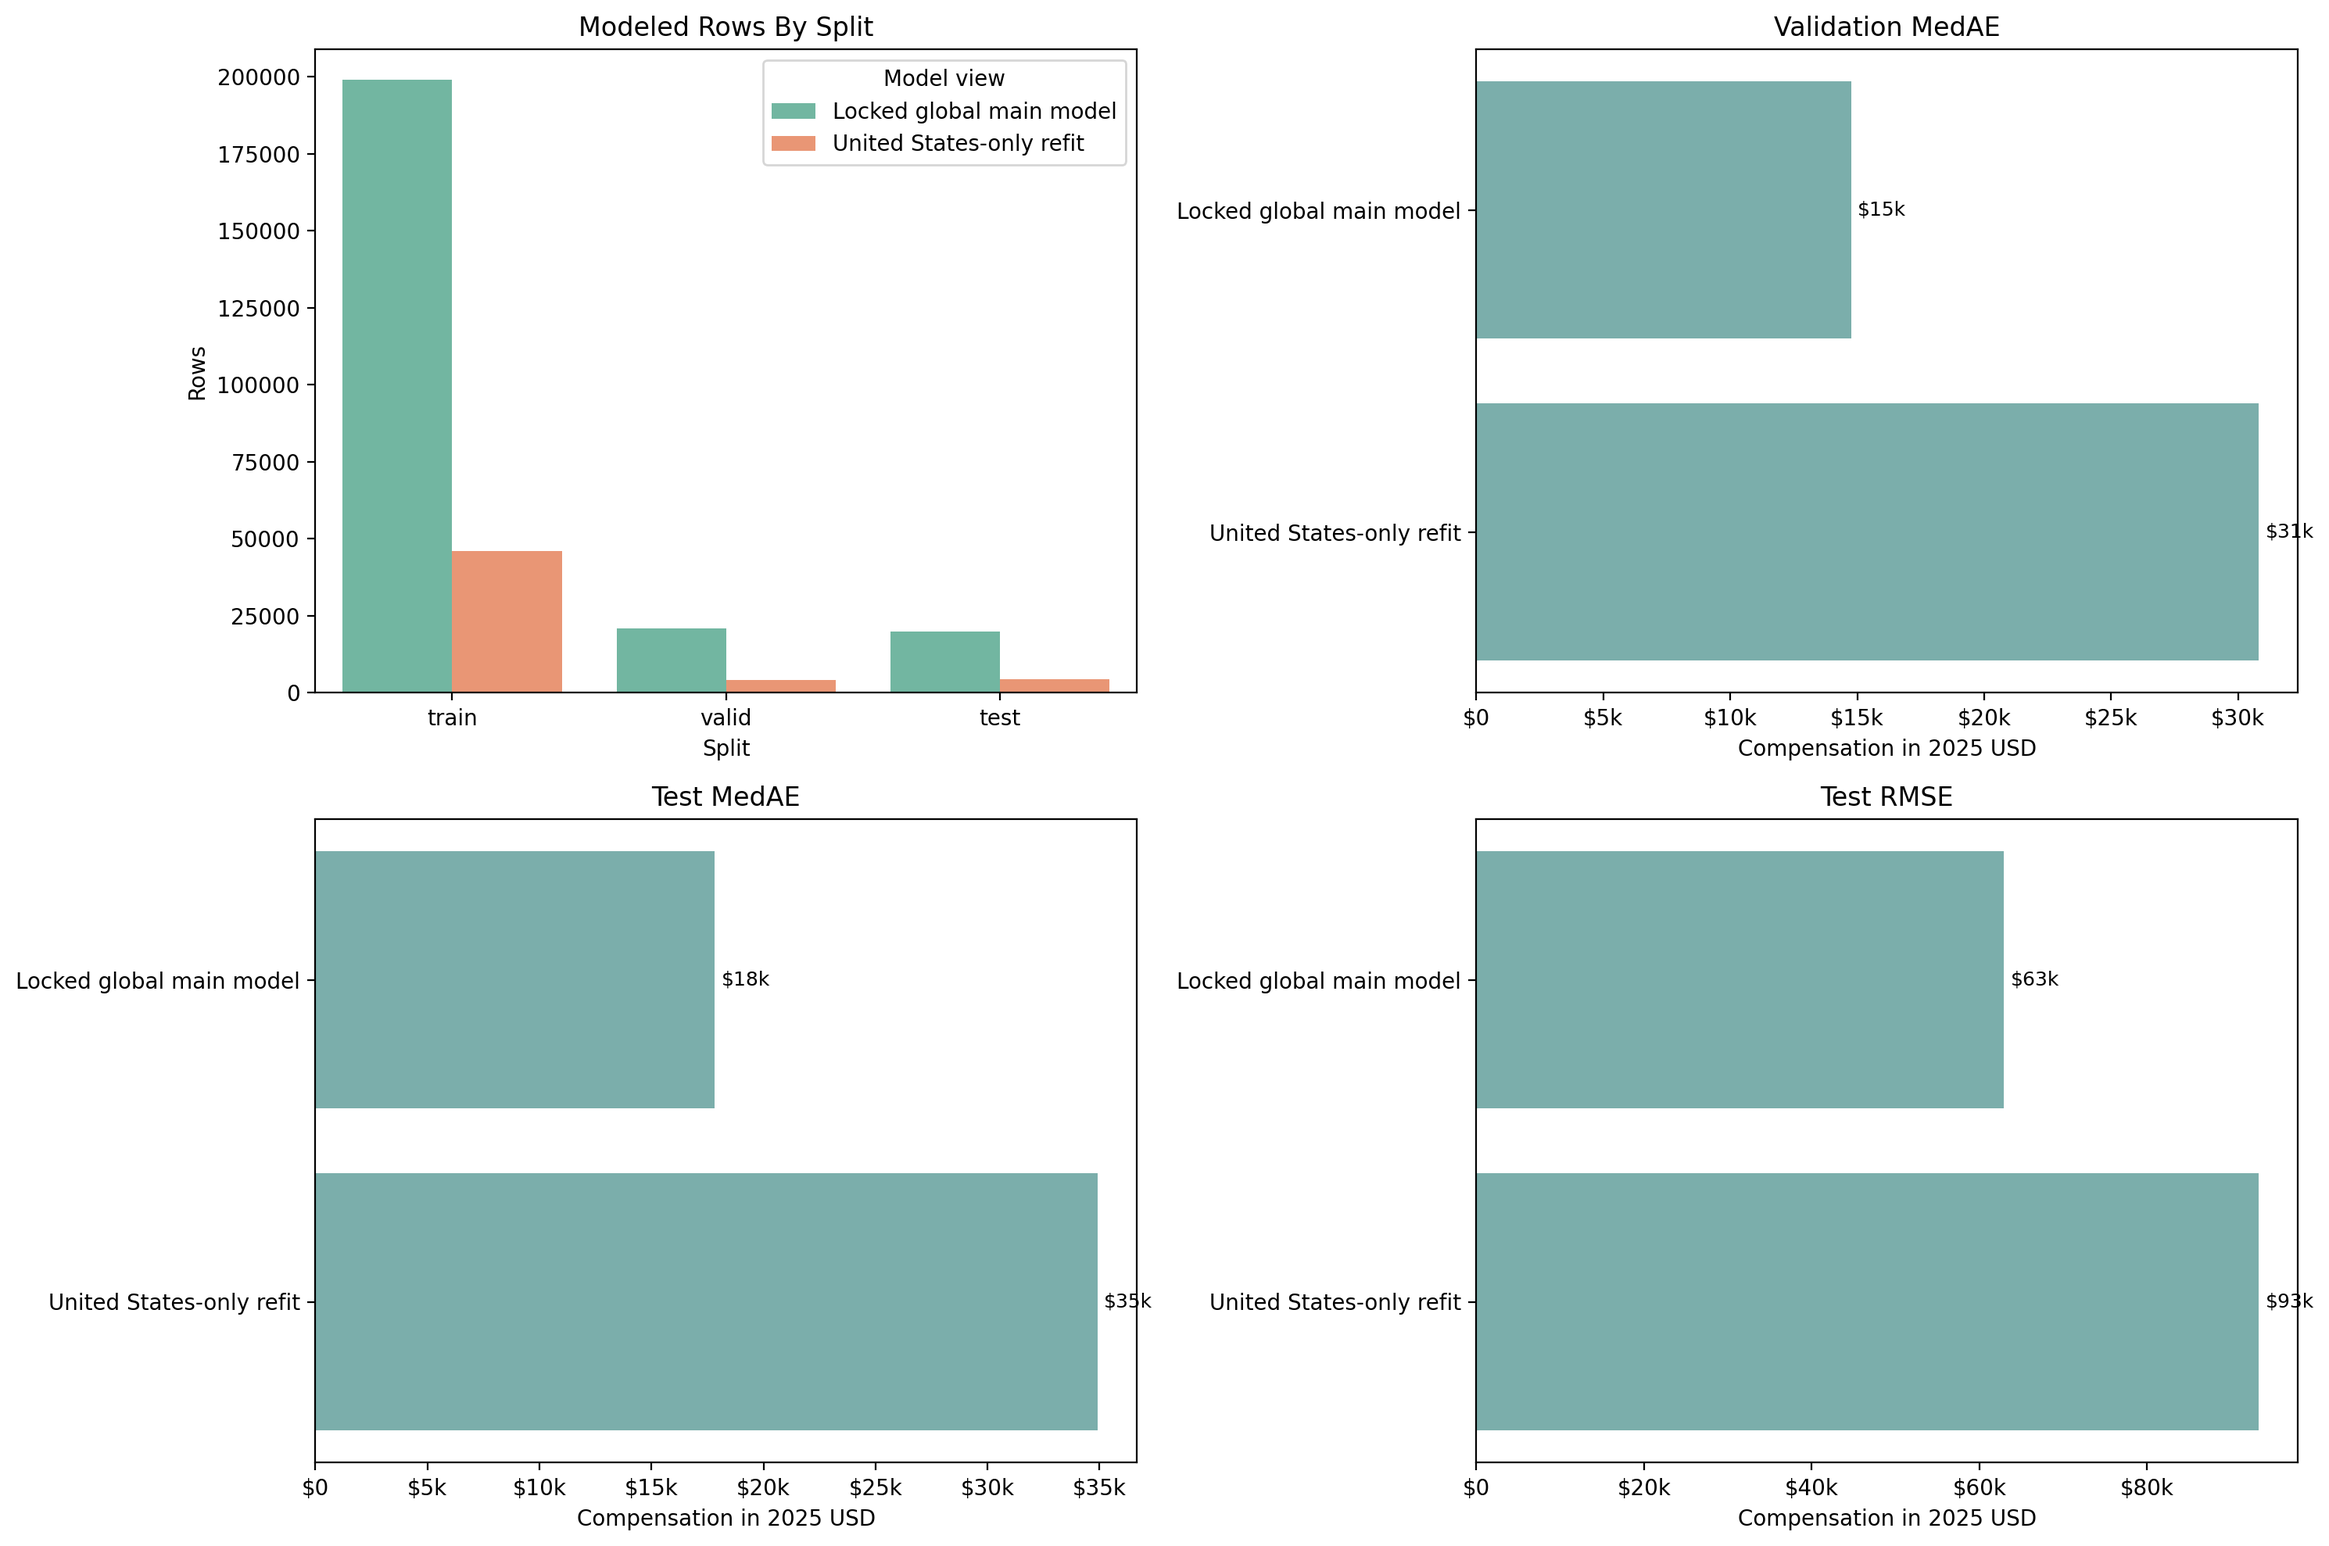
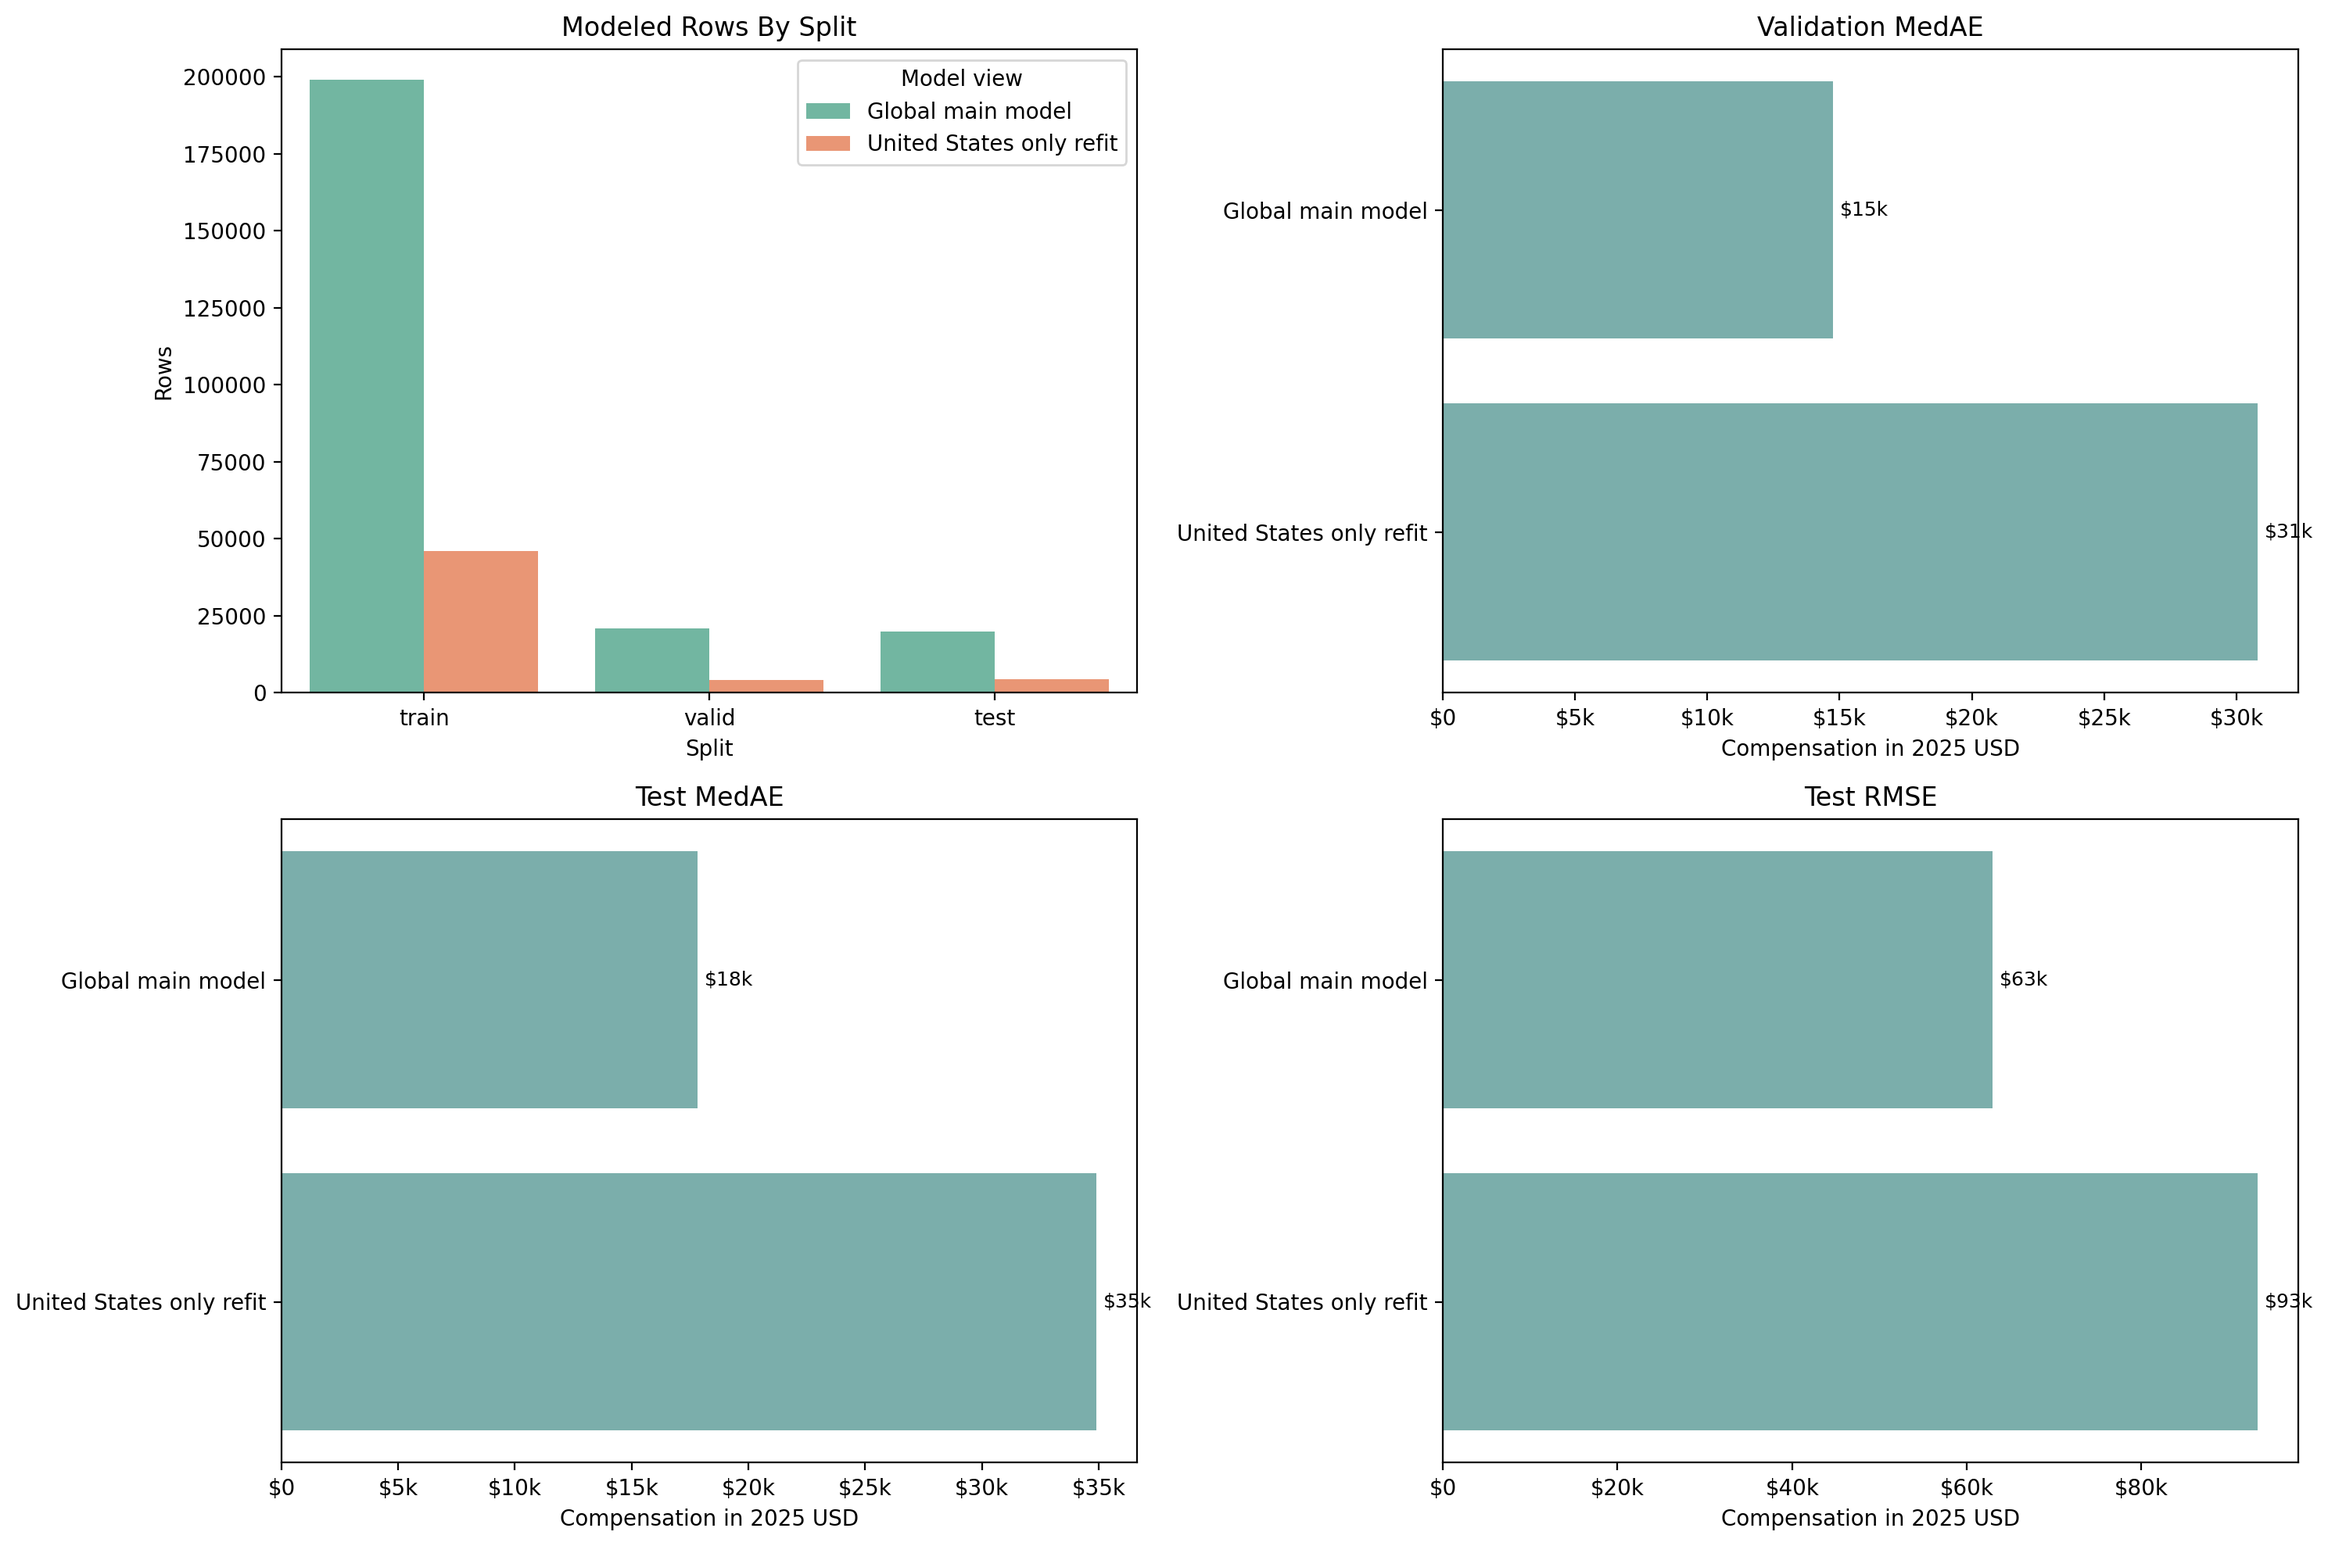
Updated compensation outputs

diff --git a/src/compensation_modeling.py b/src/compensation_modeling.py
@@ -57,8 +57,7 @@ REPORT_COUNTRY_LABELS = 12
 REPORT_SCATTER_SAMPLE = 8000
 REPORT_US_COUNTRY = 'United States'
 REPORT_US_TOP_FEATURES = 12
-GLOBAL_MAIN_VIEW = 'Locked global main model'
-GLOBAL_US_VIEW = 'Global selected on US'
+GLOBAL_MAIN_VIEW = 'Global main model'
 US_REFIT_VIEW = 'United States only refit'
 
 # Geography groups for the plain English median baseline
@@ -1237,6 +1236,23 @@ def score_prediction_frame(frame, pred_log, actual_log_col=TARGET_COL):
     return out
 
 
+# Flattens a scored prediction frame into one shared export schema for report tables
+def build_scored_prediction_export(scored_df, model_view, fit_scope, test_scope, report_country=None):
+    id_cols = [col for col in ['row_id', 'response_id', 'survey_year', 'country_clean', 'region'] if col in scored_df.columns]
+    out = scored_df[id_cols].copy()
+    out['model_view'] = model_view
+    out['fit_scope'] = fit_scope
+    out['test_scope'] = test_scope
+    if report_country is not None and 'country_clean' in out.columns:
+        out['is_report_country'] = out['country_clean'].eq(report_country)
+    out['actual_real'] = scored_df['actual_real'].to_numpy()
+    out['pred_real'] = scored_df['pred_real'].to_numpy()
+    out['signed_error_real'] = scored_df['signed_error_real'].to_numpy()
+    out['abs_error_real'] = scored_df['abs_error_real'].to_numpy()
+    out['pct_error'] = scored_df['pct_error'].to_numpy()
+    return out
+
+
 # Summarizes where the model does well or poorly once the test rows are grouped
 def summarize_prediction_groups(scored_df, group_cols, train_ref=None):
     rows = []
@@ -1559,18 +1575,11 @@ def build_us_compensation_report_bundle(
         tune_trials=0,
         group_cols=('country_clean',)
     )
-    global_valid_scored = score_prediction_frame(
-        global_valid,
-        pd.Series(global_result['valid_pred_log'], index=global_valid.index),
-        actual_log_col=TARGET_COL
-    )
     global_test_scored = score_prediction_frame(
         global_test,
         pd.Series(global_result['test_pred_log'], index=global_test.index),
         actual_log_col=TARGET_COL
     )
-    global_valid_country = global_valid_scored.loc[global_valid_scored['country_clean'].eq(country)].copy()
-    global_test_country = global_test_scored.loc[global_test_scored['country_clean'].eq(country)].copy()
 
     country_train, country_valid, country_test, country_tech_cols = split_window_with_tech_flags(
         country_df,
@@ -1592,19 +1601,11 @@ def build_us_compensation_report_bundle(
         tune_trials=0,
         group_cols=()
     )
-    country_valid_scored = score_prediction_frame(
-        country_valid,
-        pd.Series(country_result['valid_pred_log'], index=country_valid.index),
-        actual_log_col=TARGET_COL
-    )
     country_test_scored = score_prediction_frame(
         country_test,
         pd.Series(country_result['test_pred_log'], index=country_test.index),
         actual_log_col=TARGET_COL
     )
-
-    global_valid_country = global_valid_country.reindex(country_valid.index)
-    global_test_country = global_test_country.reindex(country_test.index)
 
     summary = pd.DataFrame([
         {
@@ -1649,15 +1650,23 @@ def build_us_compensation_report_bundle(
         .rename(columns={'size': 'rows'})
     )
 
-    pred_cols = [col for col in ['row_id', 'response_id', 'survey_year', 'country_clean', 'region'] if col in country_test.columns]
-    predictions = country_test[pred_cols].copy()
-    predictions['actual_real'] = country_test_scored['actual_real'].to_numpy()
-    predictions['global_us_fit_pred_real'] = global_test_country['pred_real'].to_numpy()
-    predictions['global_us_fit_signed_error_real'] = global_test_country['signed_error_real'].to_numpy()
-    predictions['global_us_fit_abs_error_real'] = global_test_country['abs_error_real'].to_numpy()
-    predictions['us_refit_pred_real'] = country_test_scored['pred_real'].to_numpy()
-    predictions['us_refit_signed_error_real'] = country_test_scored['signed_error_real'].to_numpy()
-    predictions['us_refit_abs_error_real'] = country_test_scored['abs_error_real'].to_numpy()
+    country_scope = f"{country.lower().replace(' ', '_')}_test_{TEST_YEAR}"
+    predictions = pd.concat([
+        build_scored_prediction_export(
+            global_test_scored,
+            model_view=GLOBAL_MAIN_VIEW,
+            fit_scope='global',
+            test_scope=f'global_test_{TEST_YEAR}',
+            report_country=country
+        ),
+        build_scored_prediction_export(
+            country_test_scored,
+            model_view=US_REFIT_VIEW,
+            fit_scope='country_only',
+            test_scope=country_scope,
+            report_country=country
+        )
+    ], axis=0).reset_index(drop=True)
 
     decile_compare = build_named_decile_compare_table([
         (GLOBAL_MAIN_VIEW, global_test_scored),
@@ -1690,33 +1699,22 @@ def build_us_compensation_report_bundle(
             target_col=WINSOR_TARGET_COL
         )
 
-        global_country_features = global_test_prepped.loc[
-            global_test_winsor['country_clean'].eq(country),
-            global_result['feature_cols']
-        ].copy()
+        global_feature_frame = global_test_prepped.loc[:, global_result['feature_cols']].copy()
         country_feature_frame = country_test_prepped.loc[:, country_result['feature_cols']].copy()
-        if len(global_country_features) != len(country_feature_frame):
-            raise ValueError("United States SHAP comparison frames must align row for row")
-
-        sample_positions = np.arange(len(country_feature_frame))
-        if shap_sample_size is not None and len(sample_positions) > shap_sample_size:
-            sample_positions = np.sort(
-                np.random.default_rng(RANDOM_STATE).choice(sample_positions, size=shap_sample_size, replace=False)
-            )
 
         global_shap_bundle = build_selected_shap_bundle(
             global_result['model'],
-            global_country_features.iloc[sample_positions],
-            sample_size=None
+            global_feature_frame,
+            sample_size=shap_sample_size
         )
         country_shap_bundle = build_selected_shap_bundle(
             country_result['model'],
-            country_feature_frame.iloc[sample_positions],
-            sample_size=None
+            country_feature_frame,
+            sample_size=shap_sample_size
         )
 
         global_shap_compare = normalize_importance_values(global_shap_bundle['top_features'], value_col='mean_abs_shap')
-        global_shap_compare['model_view'] = GLOBAL_US_VIEW
+        global_shap_compare['model_view'] = GLOBAL_MAIN_VIEW
         country_shap_compare = normalize_importance_values(country_shap_bundle['top_features'], value_col='mean_abs_shap')
         country_shap_compare['model_view'] = US_REFIT_VIEW
         shap_compare = pd.concat([global_shap_compare, country_shap_compare], axis=0).reset_index(drop=True)
@@ -1733,11 +1731,7 @@ def build_us_compensation_report_bundle(
         'split_counts': split_counts,
         'global_result': global_result,
         'country_result': country_result,
-        'global_valid_full_scored': global_valid_scored,
-        'global_test_full_scored': global_test_scored,
-        'global_valid_scored': global_valid_country,
-        'global_test_scored': global_test_country,
-        'country_valid_scored': country_valid_scored,
+        'global_test_scored': global_test_scored,
         'country_test_scored': country_test_scored,
         'predictions': predictions,
         'decile_compare': decile_compare,
@@ -2116,10 +2110,10 @@ def plot_us_compare(report_bundle, path):
     plt.close(fig)
 
 
-# Shows how the United States-only refit behaves on the held out 2025 rows
+# Shows how the United States only refit behaves on the held out 2025 rows
 def plot_us_diagnostics(report_bundle, path):
     country_scored = report_bundle['country_test_scored']
-    global_scored = report_bundle['global_test_full_scored']
+    global_scored = report_bundle['global_test_scored']
     decile_compare = report_bundle['decile_compare'].copy()
     diag_min = min(country_scored['actual_real'].min(), country_scored['pred_real'].min())
     diag_max = max(country_scored['actual_real'].max(), country_scored['pred_real'].max())
@@ -2218,7 +2212,7 @@ def plot_us_feature_shift(report_bundle, path):
         ax=ax,
         palette='viridis'
     )
-    ax.set_title('United States Feature Importance Shift')
+    ax.set_title('Global vs United States Feature Shift')
     ax.set_xlabel('Normalized mean |SHAP| share')
     ax.set_ylabel('')
     plt.tight_layout()
@@ -2226,7 +2220,7 @@ def plot_us_feature_shift(report_bundle, path):
     plt.close(fig)
 
 
-# SHAP beeswarm for the United States-only refit keeps the local driver story visible
+# SHAP beeswarm for the United States only refit keeps the local driver story visible
 def plot_us_shap_beeswarm(report_bundle, path, max_display=20):
     shap_bundle = report_bundle['country_shap_bundle']
     plt.figure(figsize=(12, 8))
@@ -2236,7 +2230,7 @@ def plot_us_shap_beeswarm(report_bundle, path, max_display=20):
         max_display=max_display,
         show=False
     )
-    plt.title('SHAP Beeswarm: United States-only refit')
+    plt.title('SHAP Beeswarm: United States only refit')
     plt.tight_layout()
     plt.savefig(path, dpi=200, bbox_inches='tight')
     plt.close()
@@ -2358,7 +2352,7 @@ def generate_us_compensation_report(
             'test': int(len(report_bundle['country_test']))
         },
         'metrics': {
-            'locked_global_main_model': {
+            'global_main_model': {
                 'valid_medae_real': float(global_row['valid_medae_real']),
                 'test_medae_real': float(global_row['test_medae_real']),
                 'test_rmse_real': float(global_row['test_rmse_real']),
@@ -2376,11 +2370,12 @@ def generate_us_compensation_report(
             'tables': {name: str(path) for name, path in paths['tables'].items()}
         },
         'notes': [
-            'The compare figure, summary table, and diagnostic comparisons use the locked global main model on its full contract against the United States-only refit',
-            'The prediction table still keeps global predictions on United States rows for country specific inspection',
+            'The compare figure, summary table, and diagnostic comparisons use the global main model on its full contract against the United States only refit',
+            'The prediction table now writes scored rows for the full global 2025 test set and the United States only 2025 refit set in one long-form export',
+            'The SHAP comparison now contrasts the full global main model against the United States only refit rather than a global-on-United-States slice',
             'The side refit removes country and region because the country is held fixed',
-            'The United States-only refit keeps the same winsorized target LightGBM family and top tech flag logic',
-            'This side report is explanatory and does not replace the locked global compensation model'
+            'The United States only refit keeps the same winsorized target LightGBM family and top tech flag logic',
+            'This side report is explanatory and does not replace the global compensation model'
         ]
     }
     paths['manifest'].write_text(json.dumps(manifest, indent=2), encoding='utf-8')

diff --git a/tests/test_compensation_modeling.py b/tests/test_compensation_modeling.py
@@ -298,10 +298,20 @@ def test_build_us_report_paths_and_bundle_run_on_synthetic_data():
         include_shap=True
     )
 
-    assert set(report['summary']['model_view']) == {'Locked global main model', 'United States-only refit'}
-    assert len(report['global_test_scored']) == len(report['country_test_scored'])
-    assert len(report['global_test_full_scored']) >= len(report['country_test_scored'])
-    assert len(report['predictions']) == len(report['country_test_scored'])
+    assert set(report['summary']['model_view']) == {
+        compensation_modeling.GLOBAL_MAIN_VIEW,
+        compensation_modeling.US_REFIT_VIEW
+    }
+    assert len(report['global_test_scored']) >= len(report['country_test_scored'])
+    assert len(report['predictions']) == len(report['global_test_scored']) + len(report['country_test_scored'])
+    assert set(report['predictions']['model_view']) == {
+        compensation_modeling.GLOBAL_MAIN_VIEW,
+        compensation_modeling.US_REFIT_VIEW
+    }
+    assert set(report['shap_compare']['model_view']) == {
+        compensation_modeling.GLOBAL_MAIN_VIEW,
+        compensation_modeling.US_REFIT_VIEW
+    }
     assert 'country_clean' not in report['country_result']['feature_cols']
     assert 'region' not in report['country_result']['feature_cols']
     assert report['shap_compare'] is not None
